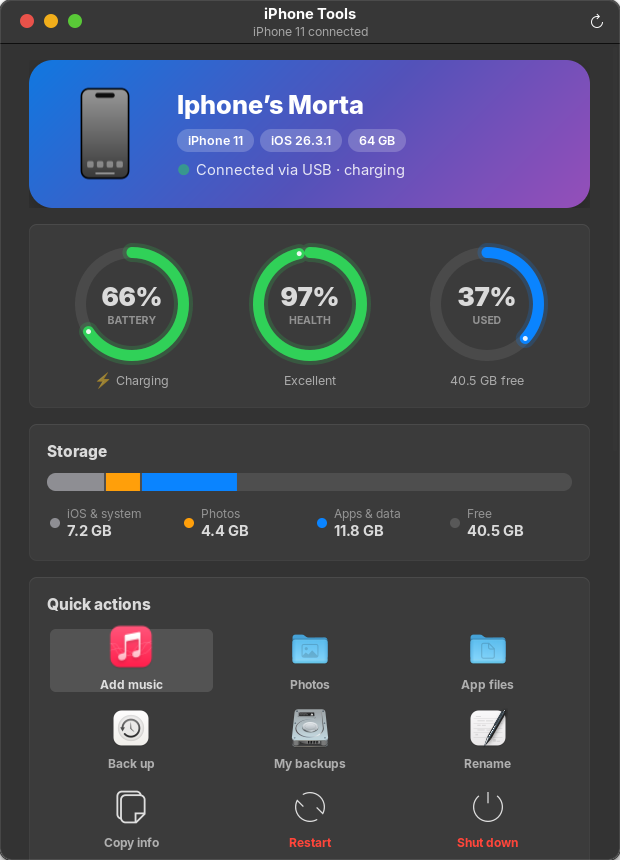
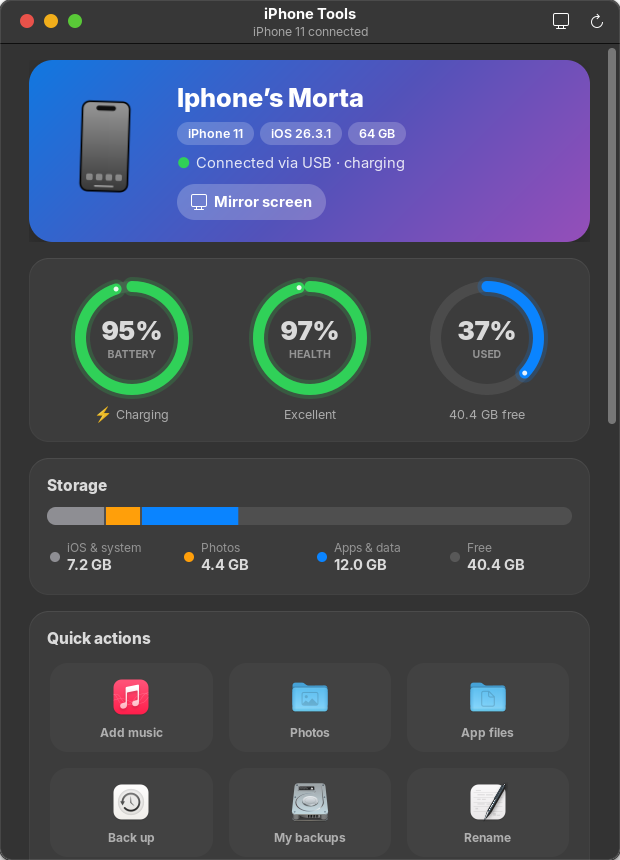
Keep the app's own styles above theme gtk.css (Mirror pill was invisible on WhiteSur)
Themes like WhiteSur install ~/.config/gtk-4.0/gtk.css at USER priority, which
beat the app's APPLICATION-priority CSS and hid the Mirror screen pill. The app
CSS only targets its own classes, so load it at USER + 1. Refresh screenshot.

diff --git a/iphone_tools.py b/iphone_tools.py
@@ -147,6 +147,10 @@ CSS = f"""
   transition: background 180ms ease;
 }}
 .mirror-pill:hover {{ background: alpha(white, 0.34); }}
+/* some themes (e.g. WhiteSur) restyle flat buttons: be more specific so the pill looks the same everywhere */
+button.flat.mirror-pill {{ background: alpha(white, 0.22); border-radius: 99px; padding: 6px 14px; }}
+button.flat.mirror-pill:hover {{ background: alpha(white, 0.34); }}
+.mirror-pill label, .mirror-pill image {{ color: white; opacity: 1; }}
 """
 
 # Apps that read songs from their "iTunes File Sharing" folder, with how to see them on the phone.
@@ -1663,7 +1667,7 @@ class App(Adw.Application):
         css = Gtk.CssProvider()
         css.load_from_string(CSS)
         Gtk.StyleContext.add_provider_for_display(Gdk.Display.get_default(), css,
-                                                  Gtk.STYLE_PROVIDER_PRIORITY_APPLICATION)
+                                                  Gtk.STYLE_PROVIDER_PRIORITY_USER + 1)  # our own classes win over theme gtk.css
 
     def do_shutdown(self):
         for w in self.get_windows():  # quitting the app also stops the mirroring receiver
